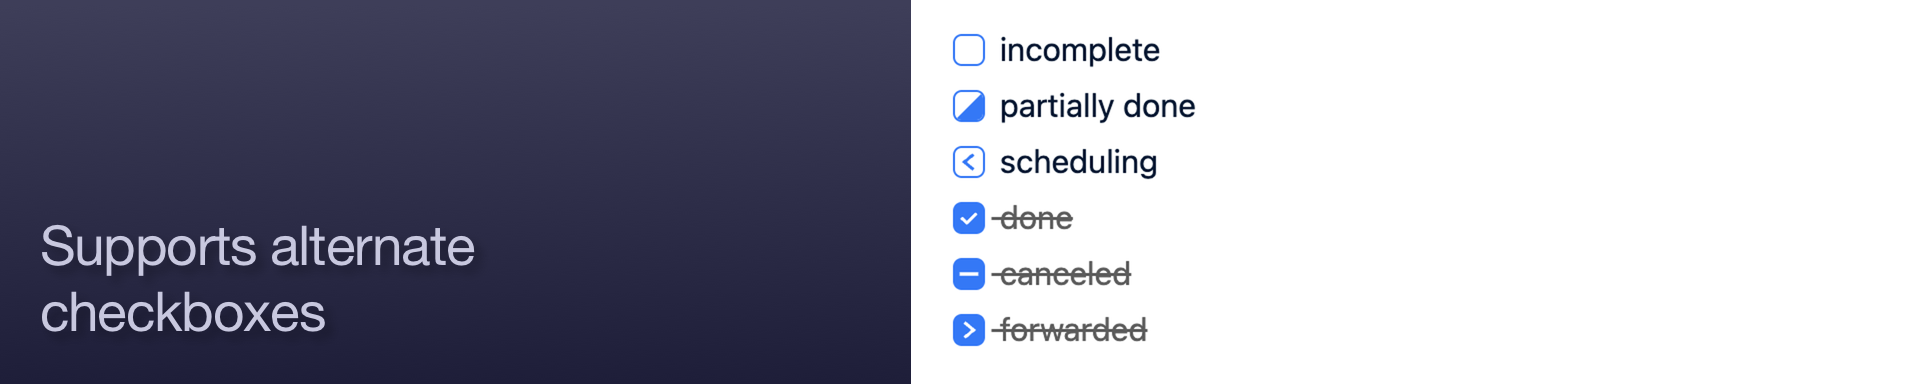
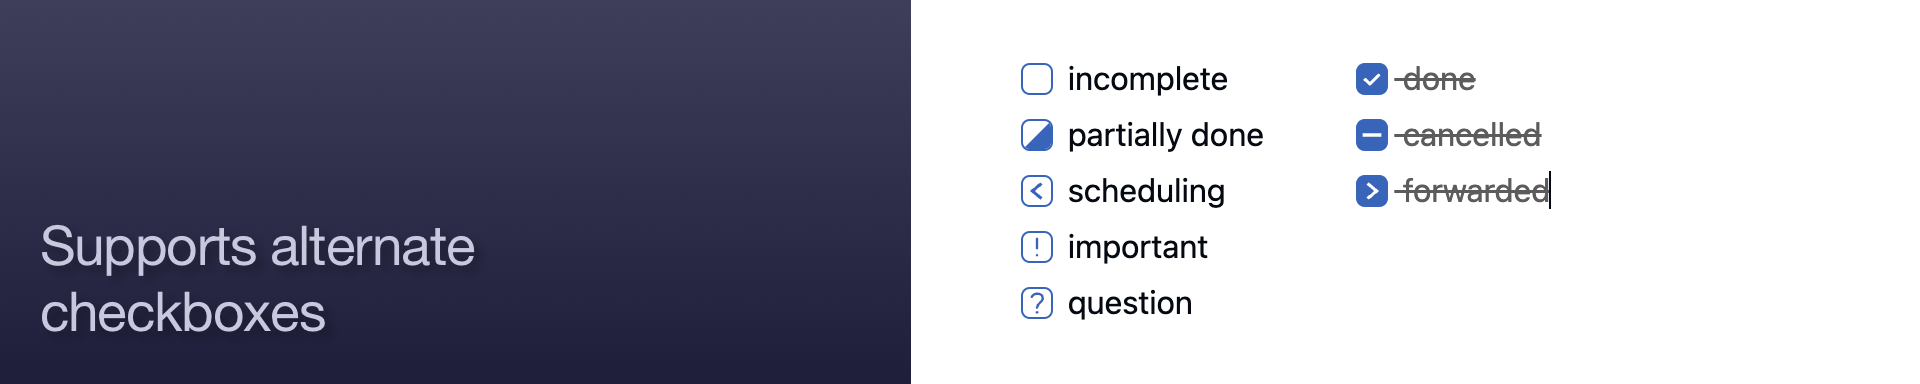
README update

diff --git a/README.md b/README.md
@@ -13,12 +13,14 @@ Kakano is an [Obsidian](https://obsidian.md/) theme with a smooth gradient backg
     - [Standardised controls](#standardised-controls)
     - [Properties below content](#properties-below-content)
     - [Follows OS standards by default](#follows-os-standards-by-default)
-    - [Alternate checkboxes](#alternate-checkboxes)
+    - [Selected alternate checkboxes](#selected-alternate-checkboxes)
     - [Supports core plugins](#supports-core-plugins)
-    - [Settings](#settings)
-      - [Color settings](#color-settings)
-      - [Layout settings](#layout-settings)
-      - [Typographic settings](#typographic-settings)
+    - [And so much more](#and-so-much-more)
+  - [Settings](#settings)
+    - [Color settings](#color-settings)
+    - [Layout settings](#layout-settings)
+    - [Typographic settings](#typographic-settings)
+    - [Experimental settings](#experimental-settings)
   - [Plugin support](#plugin-support)
     - [Core Plugins supported](#core-plugins-supported)
     - [Community Plugins supported](#community-plugins-supported)
@@ -91,13 +93,15 @@ Some people pay a lot of attention to propertioes on their notes, others use the
 - On macOS, close buttons appear at the left of tabs and modals, as standard.
 - Kakano uses system fonts by default to be consistent with other apps. It respects user font choices if you prefer something else.
 
-### Alternate checkboxes
+### Selected alternate checkboxes
 ![Supports alternate checkboxes](alternate_checkboxes.png)
-Supports some common alternate checkboxes:
+Kakano doesn't try to support a huge range of specialised alternate checkbox marks, but focuses on the ones that are most useful in practice:
 `- [/]` for "partially done"
 `- [<]` for "scheduling"
 `- [-]` for "cancelled"
 `- [>]` for "forwarded"
+`- [!]` for "important"
+`- [?]` for "question"
 
 ### Supports core plugins
 ![Supports core plugins](plugin_support.png)
@@ -105,16 +109,21 @@ Kakano styles all the core Obsidian plugins.[^1]
 
 [^1]: OK, almost all of them. I have a couple left to finish.
 
-### Settings
+### And so much more
+Kakano includes a lot of little details. Some notable examples are:
+- Large modals are resizeable. If you change settings that affect the user itnerface, you can often resize the setting smodal to see the effects without closing it.
+- When audio recording is active, the ribbon icon changes to a `REC` indicator with a pulsing red outline.
+
+## Settings
 If the [Style Settings](https://github.com/mgmeyers/obsidian-style-settings) plugin is installed, Kakano offers the following settings.
-#### Color settings
+### Color settings
 - **Base color**
-  Sets a base color that will be used by Kakano independently of the accent color. This allows you to use one color for Kakano, and a separate color for accents in your notes.
+  Sets a base color that will be used by Kakano independently of the accent color. This allows you to use one color for Kakano, and a separate color for accents in your notes. You can select from one of the preset options, or specify your own exact color.
 - **Background gradient contrast**
   Adjusts the background gradient from a flat color to a strong difference between top and bottom.
-- **Dark mode note background**
-  THe background for note sin dark mode can be either full black (nice on OLED screens) or near-black (easier on the eye).
-#### Layout settings
+- **Note backgrounds (light and dark modes)**
+  The background for note sin dark mode can be either full black (nice on OLED screens) or near-black (easier on the eye).
+### Layout settings
 - **Mobile horizontal spacing**
   On mobile screens where space is at a premium, there's the option to show some of the background color on each side, or to have the note go to full width.
 - **Properties position**
@@ -122,11 +131,13 @@ If the [Style Settings](https://github.com/mgmeyers/obsidian-style-settings) plu
   _This setting only works for Live Preview mode. Reading mode doesn't provide suitable HTML structure to support it, and Source Mode makes properties editable within the main content area.
 - **Embedded note titles**
   WHen a note is embedded in another note, the title can be shown, hidden, or shown only on hover.
-#### Typographic settings
-- **Heading scale factor - desktop/mobile**
-  The scale factor for headings can be adjusted, from 1.067 (largest H1 headings are 1.38 times the size of body text) to 1.618 (H1 headings are 11 times the size of body text)
-- **Heading scale factor - phone**
-  There's an independent scale factor for smaller phone screens, where space is at a premium.
+### Typographic settings
+- **Heading scale factors**
+  Rather than specify a size for every heading level independently, Kakano provides eight scale factor options that adjust the relative sizes of all heading levels together. If you like dramatic headings, the highest scale factor provides H1 headings 11 times the size of the body text, with other headings sized harmoniously in between. If you want to conserve space, the lowest setting makes H1 headings just 1.38 times the size of body text: the headings are still differentiated by size, but the ratio is smaller.
+  There's a separate scale factor for phones, where space is at a premium.
+### Experimental settings
+- ** Embedded links scroll position
+  Embedded links can be pinned to stay on screen as a note scrolls.
 
 ## Plugin support
 Kakano has specific styling for the following plugins:
@@ -187,18 +198,16 @@ I'm Isaac Freeman, a software developer in Aotearoa/New Zealand. I love to explo
 _Kakano_ means "color" in the Te Reo Māori – the Māori language of New Zealand.
 
 ## Credits
-
 - [WinnerWind](https://winnerwind.github.io) suggested the Mobile horizontal spacing setting.
 - [Ryan Johnson](linkedin.com/in/rydavjohnson) suggested the setting to hide titles for embedded notes, and the ability to pin embdded backlinks.
+- The[MagicUser](https://github.com/drbap/magicuser-theme-for-obsidian) theme by [Bernardo Pires](https://github.com/drbap) provided the idea of making selected modals resizeable.
 
 ## License
-
 Kakano is licensed under the MIT License which allows you to modify and redistribute the code, however you must preserve the copyright and license notice in your CSS file. This includes any code you may extract as standalone snippets.
 
 ## Disclaimer
+Kakano theme is provided as is, as a one-person hobby project I work on in my spare time. I use it on macOS and iOS, and it's not tested on other platforms. I always appreciate bug reports and suggestions, and I'll endeavour to fix problems as I hear of them, and as time permits.
 
-Kakano theme is provided as is, as a one-person hobby project I work on in my spare time. I use it on macOS and iOS, and it's not tested on other platforms. I'm happy to receive bug reports, and will endeavour to fix problems to the extent that time and resources permit, but I can't promise that it will work for everybody all the time.
+There are great themes for Obsidian that provide detailed settings for many aspects of the user interface, but the path I'm taking here is to reduce the number of choices users need to make. I enjoy and appreciate feedback and suggestions from users, but I may decide that some good ideas aren't Kakano ideas.
 
-There are great themes for Obsidian that provide detailed settings for many aspects of the user interface, but I'm taking a different path here and trying to minimise the number of choices users need to make. I enjoy and appreciate feedback and suggestions from users, but I may decide that some good ideas aren't Kakano ideas.
-
-Some of the choices I've made in Kakano may not be compatible with future updates to Obsidian, nor with custom CSS snippets. I'm aiming to keep it up to date, but again, no promises.
+Some of the choices I've made in Kakano may not be compatible with future updates to Obsidian, nor with custom CSS snippets. I'm aiming to keep it up to date but again, no promises.
